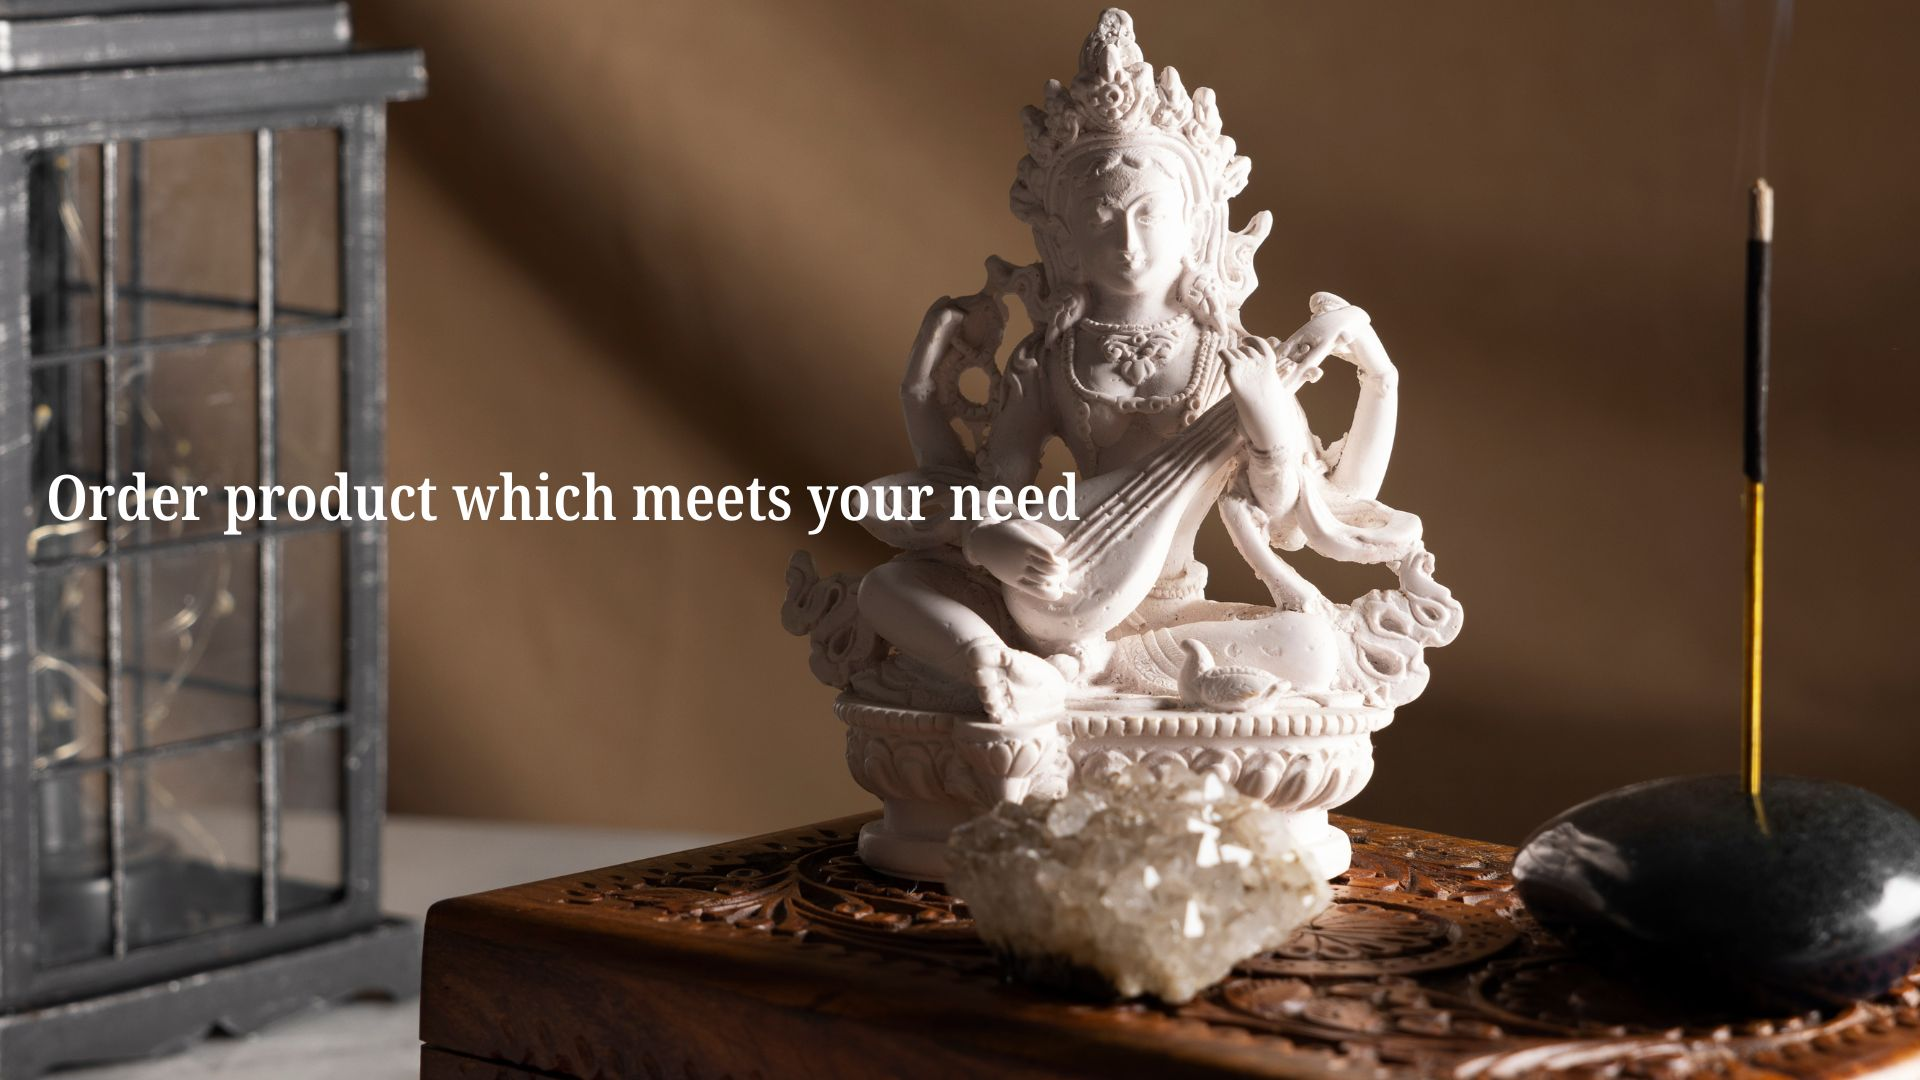
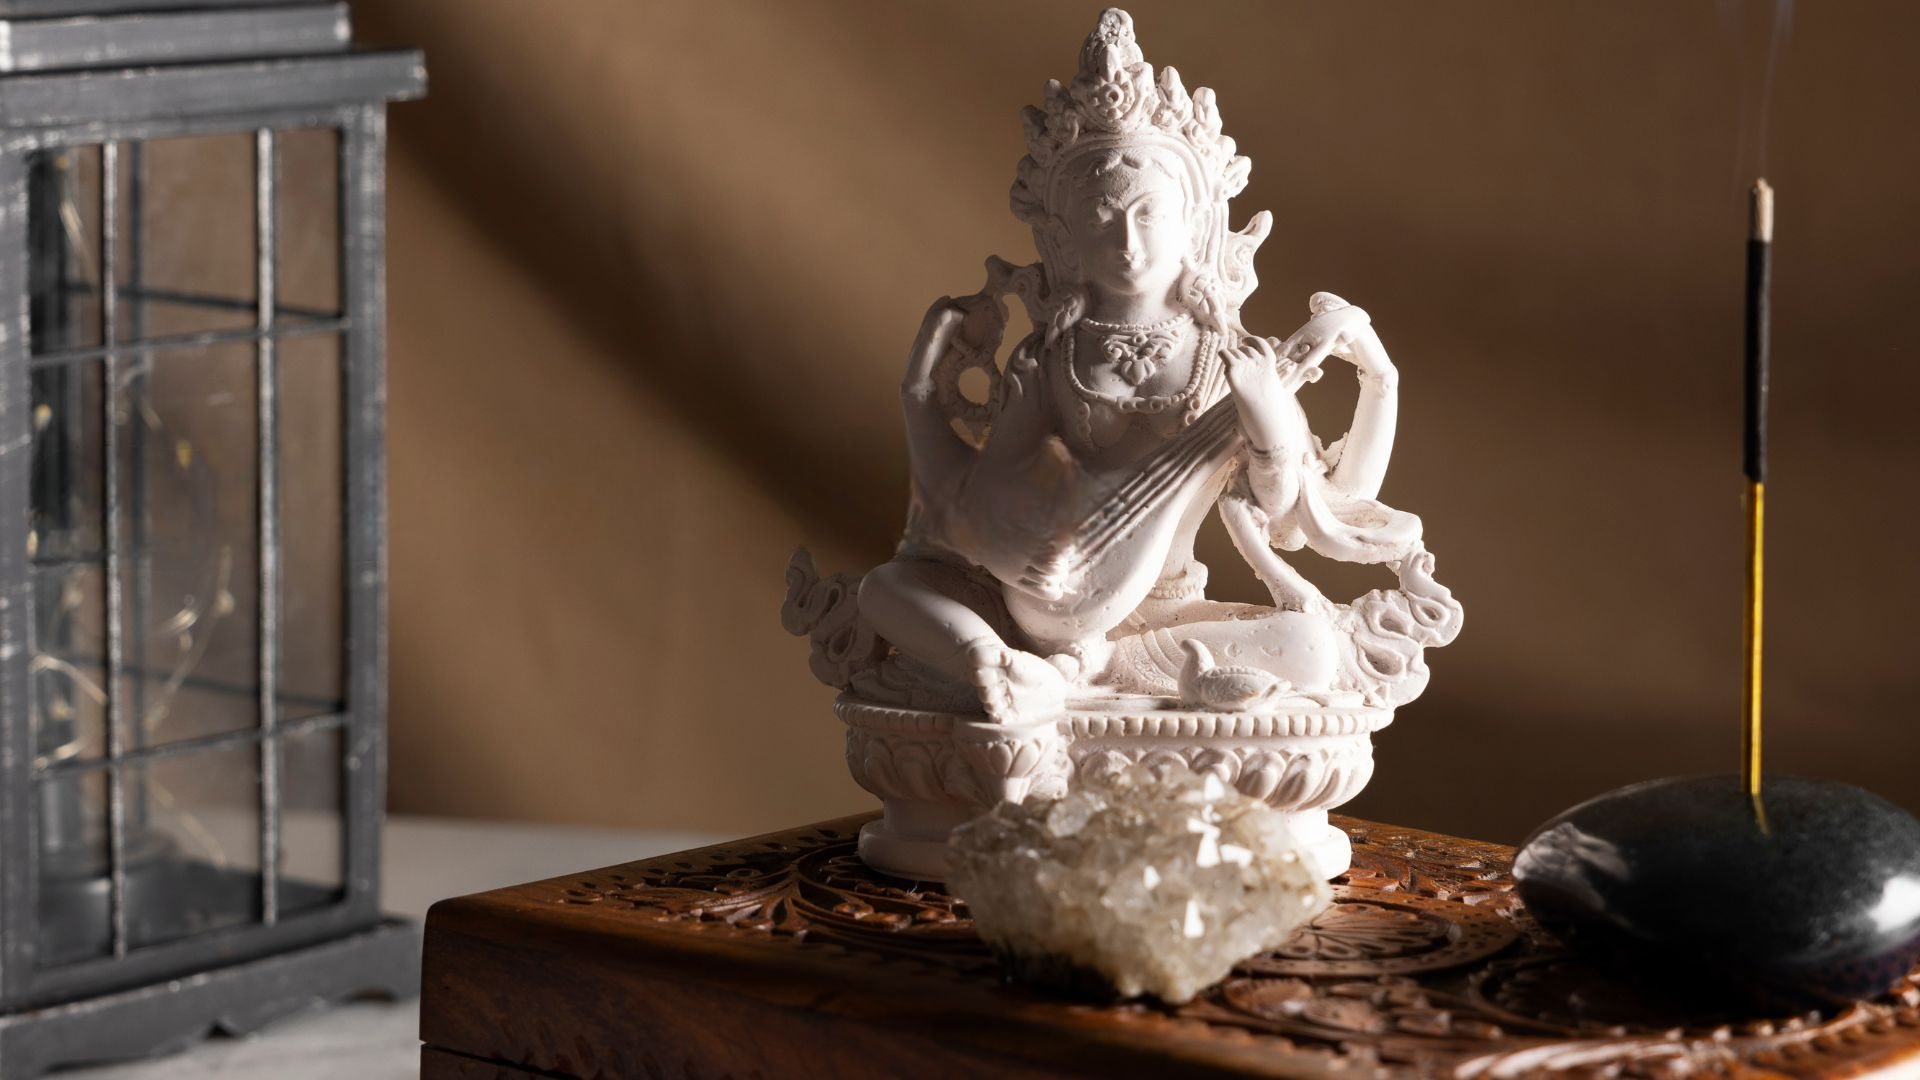
almost done

Changed region(s): [[0.0, 0.3972, 0.5938, 0.5194]]

diff --git a/src/components/carousel/Carousel.jsx b/src/components/carousel/Carousel.jsx
@@ -1,3 +1,4 @@
+/*
 import React, { useEffect, useState } from "react";
 import DetailedProduct from "../detailedproduct/DetailedProduct";
 import FeaturedProducts from "../featuredProducts/FeaturedProducts";
@@ -5,10 +6,10 @@ import ProductList from "../ProductList/ProductList";
 import { Link } from "react-router-dom";
 
 const images = [
+	"public/images/Untitled design (5).png",
 	"public/images/2.jpg",
 	"public/images/1.jpg",
-	"public/images/Untitled design (3).png",
-	"public/images/4.jpg.jpg",
+	"public/images/slide4.png",
 ];
 
 const Carousel = () => {
@@ -62,9 +63,9 @@ const Carousel = () => {
 			
 		},
 	];
-*/
+
 	return (
-		<div className="Carousel w-full h-full relative  ">
+		<div className="Carousel w-full h-full relative  overflow-hidden ">
 			{images.map((image, index) => (
 				<div
 					key={index}
@@ -76,7 +77,7 @@ const Carousel = () => {
 					<div>
 						<img
 							src={image}
-							className="w-full h-full object-cover "
+							className="w-full h-full object-center  overflow-hidden"
 							alt={`Slide ${index + 1}`}
 						/>
 					</div>
@@ -89,7 +90,7 @@ const Carousel = () => {
 						<button type="button" class="bg-amber-100 px-4 py-2 rounded">{array[index].text}</button>	
 						</div>
 					</div>
-					*/}
+					
 					<div className="absolute left-5 right-5 top-1/2 flex -translate-y-1/2 transform justify-between">
 						<button
 							onClick={handlePrev}
@@ -110,4 +111,100 @@ const Carousel = () => {
 	);
 };
 
+export default Carousel;*/
+
+import React, { useEffect, useState } from "react";
+//import DetailedProduct from "../detailedproduct/DetailedProduct";
+//import FeaturedProducts from "../featuredProducts/FeaturedProducts";
+//import ProductList from "../ProductList/ProductList";
+//import { Link } from "react-router-dom";
+
+const images = [
+	"public/images/Untitled design (5).png",
+	"public/images/2.jpg",
+	"public/images/1.jpg",
+	"public/images/slide4.png",
+];
+
+const array = [
+	{
+		Title: "Explore all the Authenticated product made by local Artists",
+		text: "From local to Global",
+		
+	},
+	{
+		Title: "Keep up with various trends according to the seasons here",
+		text: "Special seasonal offer",
+		
+	},
+	{
+		Title: "Buy all the special festival products from here",
+		text: "Special festive products",
+		
+	},
+	{
+		Title: "Order products that meet your needs",
+		text: "Custom-made products",
+	},
+];
+
+const Carousel = () => {
+	const [currentIndex, setCurrentIndex] = useState(0);
+
+	useEffect(() => {
+		const interval = setInterval(() => {
+			setCurrentIndex((prevIndex) => (prevIndex + 1) % images.length);
+		}, 10000); // Change slide every 10 seconds
+
+		return () => clearInterval(interval); // Clean up the interval on component unmount
+	}, []);
+
+	const handlePrev = () => {
+		setCurrentIndex((prevIndex) => (prevIndex - 1 + images.length) % images.length);
+	};
+
+	const handleNext = () => {
+		setCurrentIndex((prevIndex) => (prevIndex + 1) % images.length);
+	};
+
+	return (
+		<div className="Carousel relative w-full h-screen bg-brown-500 overflow-hidden isolate z-0"   style={{ backgroundColor: "#bec9ae" }}>
+			{images.map((image, index) => (
+				<div
+					key={index}
+					className={`absolute inset-0 flex flex-col justify-center items-center transition-opacity duration-500 ${
+						index === currentIndex ? "opacity-100 z-10" : "opacity-0 z-0"
+					}`}
+				>
+					<div className="relative w-[70%] h-[70%]  rounded-lg shadow-md overflow-hidden">
+					<img
+						src={image}
+						alt={`Slide ${index + 1}`}
+						className="w-full h-100 object-cover"
+					/>
+					<div className="absolute inset-0 bg-black bg-opacity-50 flex flex-col justify-center items-center">
+						<h1 className="text-5xl font-bold text-white text-center mb-4">
+							{array[index]?.Title}
+						</h1>
+						<p className="text-2xl text-white text-center mb-6">{array[index]?.text}</p>
+						<button className="bg-amber-100 text-black px-6 py-2 rounded">
+							Explore
+						</button>
+					</div>
+				</div>
+				</div>
+			))}
+			<div className="absolute left-5 right-5 top-1/2 flex -translate-y-1/2 transform justify-between">
+				<button onClick={handlePrev} className="btn btn-circle">
+					❮
+				</button>
+				<button onClick={handleNext} className="btn btn-circle">
+					❯
+				</button>
+			</div>
+		</div>
+	);
+};
+
 export default Carousel;
+

diff --git a/src/index.css b/src/index.css
@@ -6,4 +6,9 @@
   html {
     font-family: "comic sans", system-ui, sans-serif;
   }
+  html,
+body {
+  height: 100%;
+  margin: 0;
+}
 }
